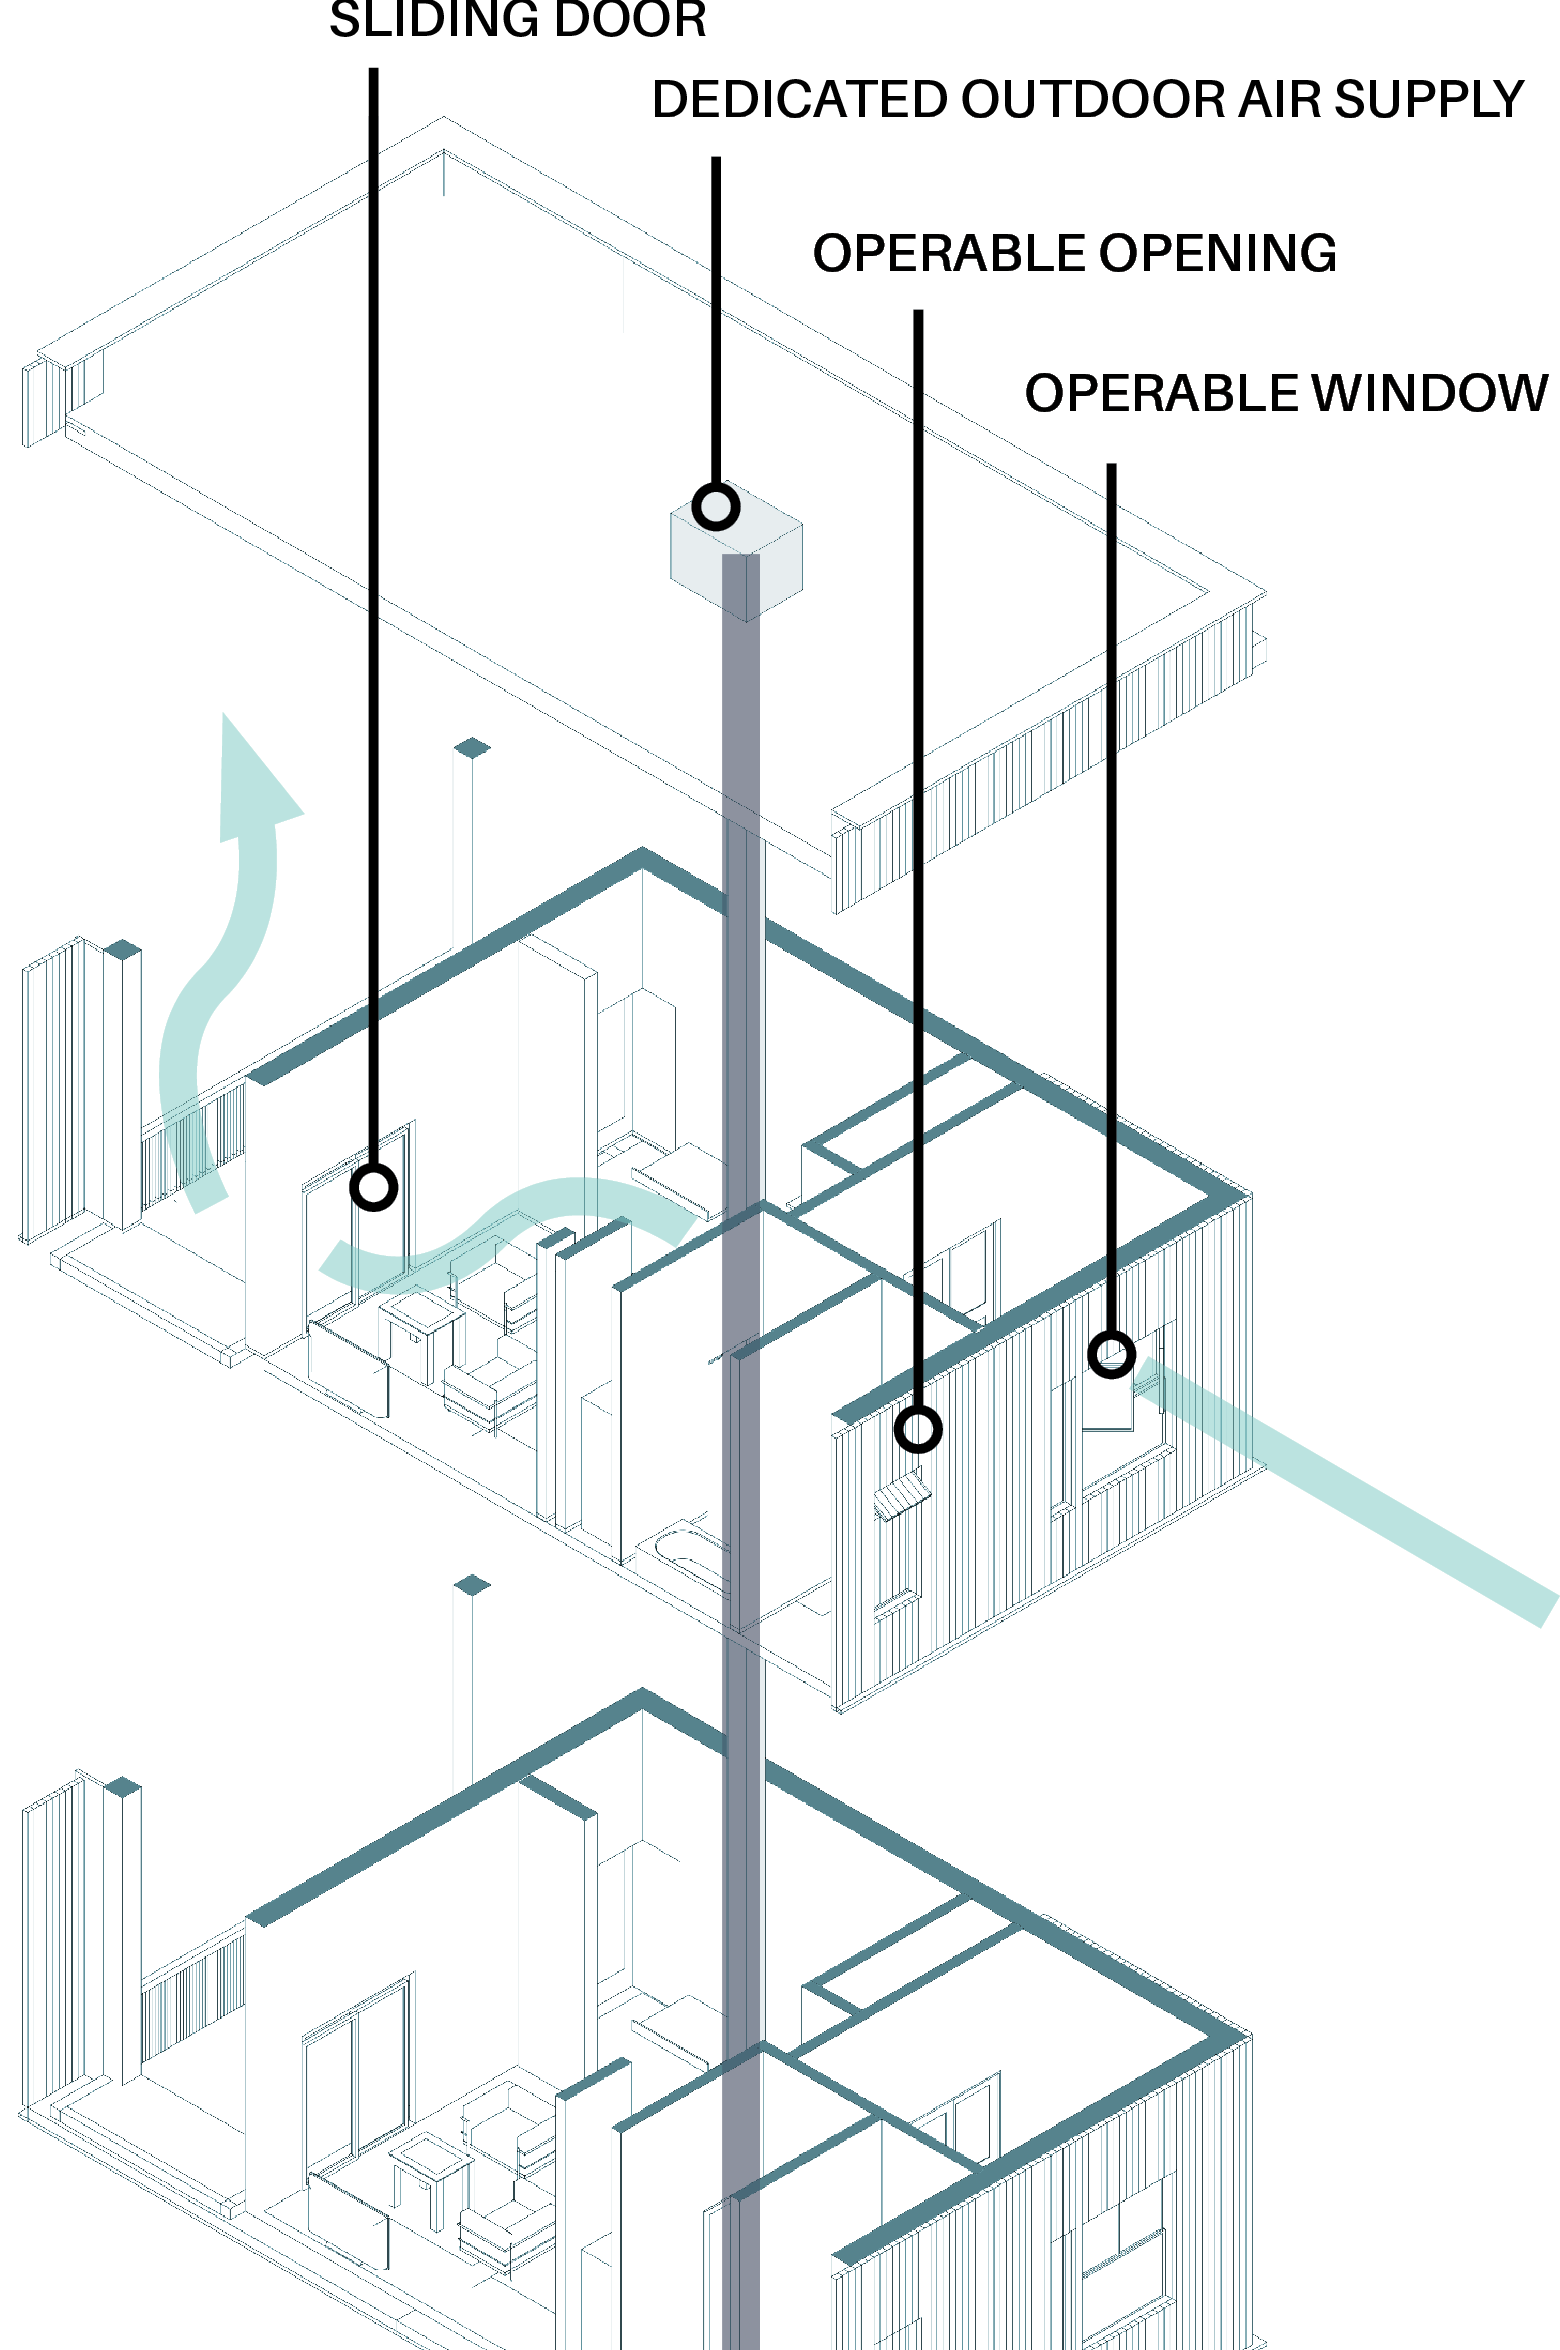
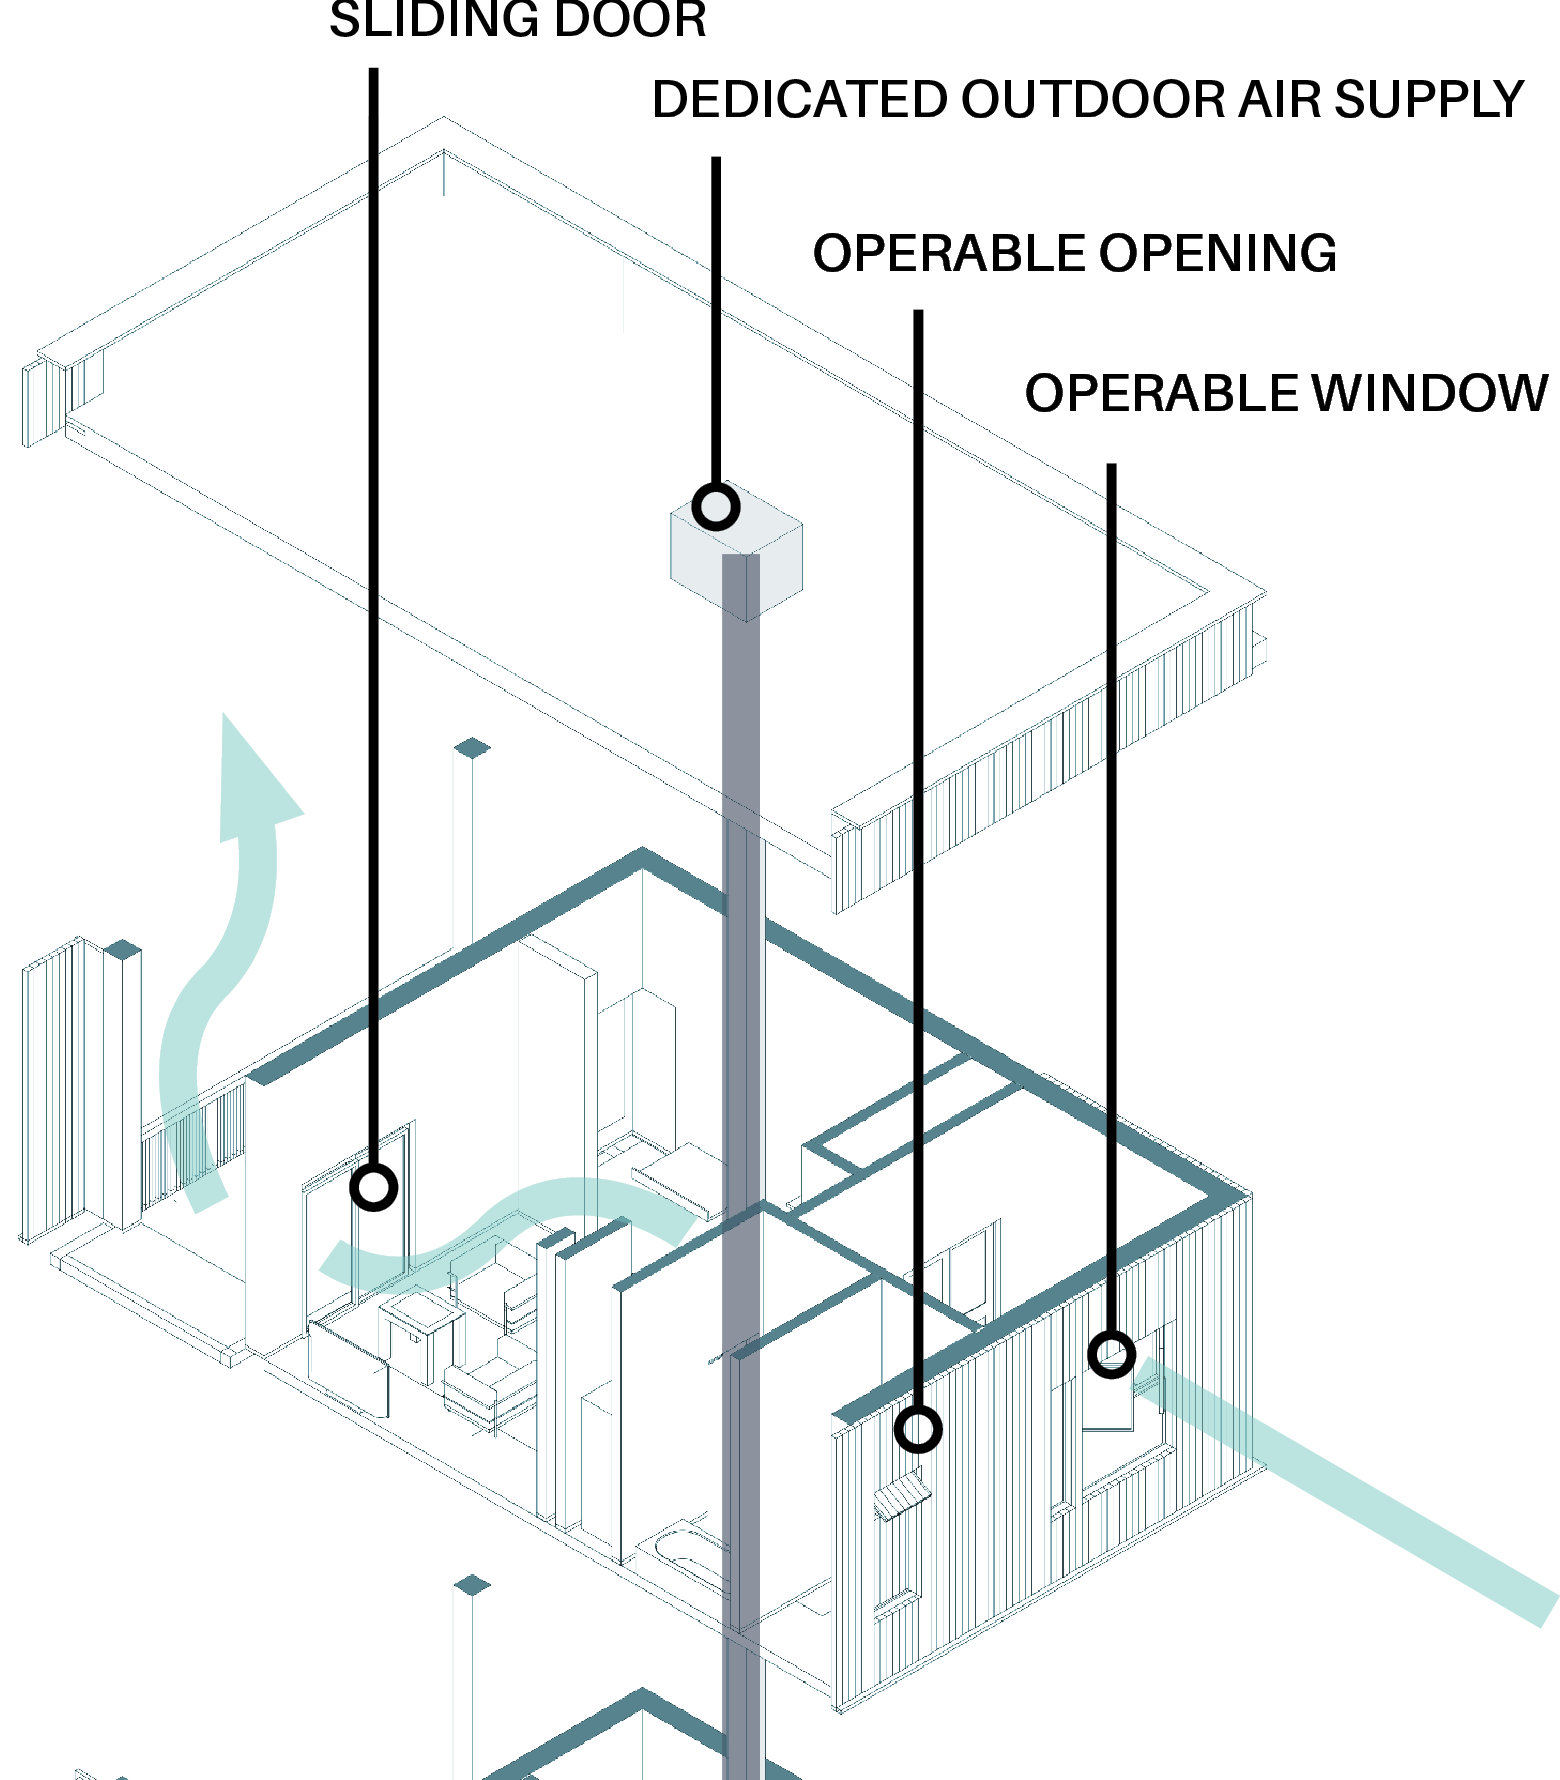
Center Joinery technical assembly graphics

diff --git a/site.js b/site.js
@@ -61,16 +61,16 @@ function joineryProjectPage(project) {
   <section class="joinery-concept"><div class="joinery-concept-copy"><p class="eyebrow">01 / Concept</p><h2>Live-Work Walk-Up Housing</h2><p>As the Village faces change through new development from Ball State, the Joinery responds to changing conditions through a form that fits its context while using durable, resilient materials.</p><p>Within the current context, housing is largely limited to single-family homes or large student apartments. Growth near campus prioritizes students, displacing locals and creating a divide between communities; inactive ground levels reduce neighborhood vibrancy.</p><p>The proposal introduces diverse unit types, increasing density while maintaining neighborhood scale; it integrates retail and shared spaces to encourage daily interaction, with transparent active edges and outdoor rooms.</p></div><figure class="joinery-parti"><img src="assets/images/joinery-parti-and-concept.png" alt="Scale, lighting, circulation, user privacy, and public-private parti diagrams"><figcaption>Parti: scale, light, circulation, privacy, and public life</figcaption></figure><figure class="joinery-history"><img src="assets/images/joinery-village-timeline.png" alt="Historical Village timeline"><figcaption>Historical context: the Village</figcaption></figure></section>
   <section class="joinery-context joinery-context--axon"><header><p class="eyebrow">02 / Site</p><h2>Site + context</h2></header><figure><img src="assets/images/joinery-site-context-cropped.png" alt="The relation between the Joinery, Ball State University, and the Village"><figcaption>The relation between Ball State University and the Village</figcaption></figure></section>
   <section class="joinery-isonometric"><header><p class="eyebrow">03 / Building systems</p><h2>Spatial planning</h2></header><figure><img src="assets/images/joinery-labeled-isonometric.png" alt="Labeled isonometric building diagram with solar-assisted HVAC"><figcaption>Spatial planning and solar-assisted air system</figcaption></figure></section>
-  <section class="joinery-catalogue"><header><p class="eyebrow">04 / Technical catalogue</p><h2>Drawings + models</h2><p>Open an image to study the full drawing.</p></header><div class="joinery-catalogue-grid">
-    <a href="assets/images/joinery-physical-model-context.png" target="_blank" rel="noopener"><img src="assets/images/joinery-physical-model-context.png" alt="Physical model showing the Joinery structure"></a>
-    <a href="assets/images/joinery-glue-fujii-robertson4.png" target="_blank" rel="noopener"><img src="assets/images/joinery-glue-fujii-robertson4.png" alt="Village Joinery visualization"></a>
-    <a href="assets/images/timber-p03-12.jpg" target="_blank" rel="noopener"><img src="assets/images/timber-p03-12.jpg" alt="Structural drawing"></a>
-    <a href="assets/images/joinery-natural-ventilation-axon.png" target="_blank" rel="noopener"><img src="assets/images/joinery-natural-ventilation-axon.png" alt="Building axonometric explaining natural ventilation"></a>
-    <a href="assets/images/joinery-roof-cladding-centered.png" target="_blank" rel="noopener"><img src="assets/images/joinery-roof-cladding-centered.png" alt="Centered roof cladding detail"></a>
-    <a href="assets/images/joinery-wall-cladding-centered.png" target="_blank" rel="noopener"><img src="assets/images/joinery-wall-cladding-centered.png" alt="Centered wall cladding detail"></a>
-    <a href="assets/images/joinery-hvac-spatial-planning.png" target="_blank" rel="noopener"><img src="assets/images/joinery-hvac-spatial-planning.png" alt="HVAC spatial planning diagram"></a>
-    <a href="assets/images/joinery-concept-studies.png" target="_blank" rel="noopener"><img src="assets/images/joinery-concept-studies.png" alt="The concept studies"></a>
-    <a href="assets/images/joinery-physical-model.png" target="_blank" rel="noopener"><img src="assets/images/joinery-physical-model.png" alt="Physical model photograph"></a>
+  <section class="joinery-catalogue"><header><p class="eyebrow">04 / Technical catalogue</p><h2>Drawings + models</h2><p>Hover over an image to study the full drawing.</p></header><div class="joinery-catalogue-grid">
+    <div class="joinery-catalogue-item"><img src="assets/images/joinery-physical-model-context.png" alt="Physical model showing the Joinery structure"></div>
+    <div class="joinery-catalogue-item"><img src="assets/images/joinery-glue-fujii-robertson4.png" alt="Village Joinery visualization"></div>
+    <div class="joinery-catalogue-item"><img src="assets/images/timber-p03-12.jpg" alt="Structural drawing"></div>
+    <div class="joinery-catalogue-item"><img src="assets/images/joinery-natural-ventilation-axon.png" alt="Building axonometric explaining natural ventilation"></div>
+    <div class="joinery-catalogue-item"><img src="assets/images/joinery-roof-cladding-centered.png" alt="Roof assembly axonometric with material schedule"></div>
+    <div class="joinery-catalogue-item"><img src="assets/images/joinery-wall-cladding-centered.png" alt="Wall assembly axonometric with material schedule"></div>
+    <div class="joinery-catalogue-item"><img src="assets/images/joinery-hvac-spatial-planning.png" alt="HVAC spatial planning diagram"></div>
+    <div class="joinery-catalogue-item"><img src="assets/images/joinery-concept-studies.png" alt="The concept studies"></div>
+    <div class="joinery-catalogue-item"><img src="assets/images/joinery-physical-model.png" alt="Physical model photograph"></div>
     <div class="joinery-catalogue-preview" aria-hidden="true"><img alt=""></div>
   </div></section>`;
 }
@@ -110,7 +110,7 @@ function projectPage() {
   const text = project.text.map((paragraph) => `<p>${paragraph}</p>`).join('');
   const images = narrativeMedia(project, id);
   const links = (project.links || []).map(([label, href]) => `<a class="project-reference" href="${href}" target="_blank" rel="noopener">${label} ↗</a>`).join('');
-  const boards = (project.boards || []).map(([src, alt]) => `<figure class="project-board-image"><a href="${src}" target="_blank" rel="noopener"><img src="${src}" alt="${alt}"></a><figcaption>${alt} - open full board ↗</figcaption></figure>`).join('');
+  const boards = (project.boards || []).map(([src, alt]) => `<figure class="project-board-image"><img src="${src}" alt="${alt}"><figcaption>${alt}</figcaption></figure>`).join('');
   const boardSection = boards ? `<section class="project-board"><header><p class="eyebrow">Complete presentation</p><h2>Project Board</h2></header><div>${boards}</div></section>` : '';
   const detailHero = project.detailHero || project.hero;
   const meta = `${project.year ? `<div><dt>Year</dt><dd>${project.year}</dd></div>` : ''}${project.tools ? `<div><dt>Tools</dt><dd>${project.tools}</dd></div>` : ''}`;
@@ -145,7 +145,7 @@ function joineryCataloguePreview() {
     const preview = grid.querySelector('.joinery-catalogue-preview');
     const previewImage = preview?.querySelector('img');
     if (!preview || !previewImage) return;
-    grid.querySelectorAll('a').forEach((item) => {
+    grid.querySelectorAll('.joinery-catalogue-item').forEach((item) => {
       const image = item.querySelector('img');
       if (!image) return;
       const show = () => {
@@ -162,6 +162,13 @@ function joineryCataloguePreview() {
   });
 }
 
+function protectImages() {
+  document.querySelectorAll('img').forEach((image) => { image.draggable = false; });
+  document.addEventListener('contextmenu', (event) => {
+    if (event.target instanceof HTMLImageElement) event.preventDefault();
+  });
+}
+
 workMenu();
 responsiveHeader();
 index();
@@ -169,3 +176,4 @@ collectionPage();
 projectPage();
 constrainImageZoom();
 joineryCataloguePreview();
+protectImages();

diff --git a/styles.css b/styles.css
@@ -61,7 +61,7 @@
 .joinery-context--axon{max-width:none;min-height:100svh;display:grid;grid-template-rows:auto minmax(0,1fr);padding:4vw}.joinery-context--axon header{max-width:none;margin:0 0 2vw}.joinery-context--axon figure{display:flex;min-height:0;flex-direction:column;justify-content:center}.joinery-context--axon figure:first-of-type{width:100%}.joinery-context--axon img{width:100%;max-height:calc(100svh - 13rem);object-fit:contain}
 .joinery-isonometric header{max-width:32rem;margin-bottom:3vw}.joinery-isonometric figure{max-width:1280px}
 .joinery-catalogue{display:grid;grid-template-columns:.38fr 1fr;gap:5vw;align-items:start}.joinery-catalogue header{position:sticky;top:2rem}.joinery-catalogue h2{margin-bottom:1rem}.joinery-catalogue-grid{display:grid;grid-template-columns:repeat(3,minmax(0,1fr));gap:1px;background:var(--line);border:1px solid var(--line)}
-.joinery-catalogue-grid a{position:relative;aspect-ratio:1;background:#fff;display:flex;align-items:center;justify-content:center;overflow:visible;z-index:0}.joinery-catalogue-grid img{width:100%;height:100%;object-fit:contain;padding:.7rem;pointer-events:none;transition:transform .24s ease}.joinery-catalogue-grid span{position:absolute;left:.7rem;bottom:.6rem;padding:.25rem .35rem;background:rgba(255,255,255,.88);font:.6rem var(--mono);letter-spacing:.03em}.joinery-catalogue-grid a:hover,.joinery-catalogue-grid a:focus-visible{z-index:5}.joinery-catalogue-grid a:hover img,.joinery-catalogue-grid a:focus-visible img{transform:scale(3)}
+.joinery-catalogue-grid .joinery-catalogue-item{position:relative;aspect-ratio:1;background:#fff;display:flex;align-items:center;justify-content:center;overflow:visible;z-index:0}.joinery-catalogue-grid img{width:100%;height:100%;object-fit:contain;padding:.7rem;pointer-events:none;transition:transform .24s ease}
 @media(max-width:760px){.joinery-concept,.joinery-context,.joinery-isonometric,.joinery-catalogue{padding:15vw 5vw}.joinery-concept,.joinery-context,.joinery-catalogue{grid-template-columns:1fr;gap:2.5rem}.joinery-parti,.joinery-history{grid-column:auto}.joinery-history{margin-top:0!important}.joinery-context header{grid-row:auto}.joinery-context figure+figure{max-width:100%;justify-self:stretch}.joinery-isonometric header{margin-bottom:2.5rem}.joinery-catalogue header{position:static}.joinery-catalogue-grid{grid-template-columns:repeat(2,minmax(0,1fr))}}
 
 /* Shared reading rhythm: every project moves from proposition to evidence to outcome. */
@@ -108,17 +108,17 @@ body{font-size:var(--reading-size)}
 .project-chapter-media .project-image--zoom{position:relative;overflow:visible;z-index:0}.project-chapter-media .project-image--zoom img{pointer-events:none;transition:transform .24s ease;transform-origin:center}.project-chapter-media .project-image--zoom figcaption{position:relative;background:#fff}.project-chapter-media .project-image--zoom:hover,.project-chapter-media .project-image--zoom:focus-within{z-index:5}.project-chapter-media .project-image--zoom:hover img,.project-chapter-media .project-image--zoom:focus-within img{transform:scale(3)}
 
 /* Enlarged drawings remain within the viewport and float as a complete, uninterrupted image. */
-.joinery-catalogue-grid a,.project-chapter-media .project-image--zoom{cursor:zoom-in}
-.joinery-catalogue-grid a img,.project-chapter-media .project-image--zoom img{position:relative;z-index:2;transform-origin:var(--zoom-origin,center);transition:transform .24s ease,box-shadow .24s ease}
-.joinery-catalogue-grid a span,.project-chapter-media .project-image--zoom figcaption{position:relative;z-index:1}
-.joinery-catalogue-grid a:hover img,.joinery-catalogue-grid a:focus-visible img,.project-chapter-media .project-image--zoom:hover img,.project-chapter-media .project-image--zoom:focus-within img{transform:scale(var(--zoom-scale,1))}
-.joinery-catalogue-grid a.image-expanded,.project-chapter-media .project-image--zoom.image-expanded{z-index:30!important}
-.joinery-catalogue-grid a.image-expanded img,.project-chapter-media .project-image--zoom.image-expanded img{transform:scale(var(--zoom-scale,1));box-shadow:0 18px 36px rgba(0,0,0,.18)}
+.joinery-catalogue-grid .joinery-catalogue-item,.project-chapter-media .project-image--zoom{cursor:zoom-in}
+.joinery-catalogue-grid .joinery-catalogue-item img,.project-chapter-media .project-image--zoom img{position:relative;z-index:2;transform-origin:var(--zoom-origin,center);transition:transform .24s ease,box-shadow .24s ease}
+.project-chapter-media .project-image--zoom figcaption{position:relative;z-index:1}
+.project-chapter-media .project-image--zoom:hover img,.project-chapter-media .project-image--zoom:focus-within img{transform:scale(var(--zoom-scale,1))}
+.project-chapter-media .project-image--zoom.image-expanded{z-index:30!important}
+.project-chapter-media .project-image--zoom.image-expanded img{transform:scale(var(--zoom-scale,1));box-shadow:0 18px 36px rgba(0,0,0,.18)}
 
 /* A Joinery catalogue drawing is previewed across the complete 3 × 3 field.
    The drawing itself stays uncropped; white space completes the field. */
 .joinery-catalogue-grid{position:relative;isolation:isolate}
-.joinery-catalogue-grid a:hover img,.joinery-catalogue-grid a:focus-visible img{transform:none;box-shadow:none}
+.joinery-catalogue-grid .joinery-catalogue-item:hover img{transform:none;box-shadow:none}
 .joinery-catalogue-preview{position:absolute;inset:0;z-index:30;display:none;align-items:center;justify-content:center;padding:clamp(1rem,2vw,2.5rem);background:#fff;pointer-events:none}
 .joinery-catalogue-preview.is-visible{display:flex}
 .joinery-catalogue-preview img{display:block;width:100%;height:100%;max-width:none;object-fit:contain;padding:0;transform:none!important;box-shadow:none!important}
